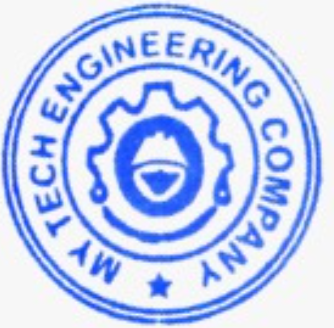
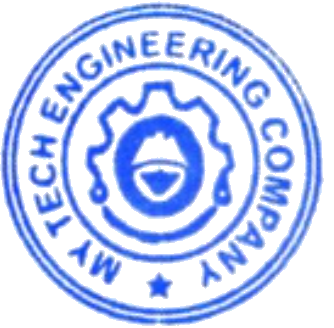
fix: make stamp background transparent and add horizontal padding to prevent overlapping with text

diff --git a/backend/MyTechERP.Infrastructure/Services/QuotationPdfService.cs b/backend/MyTechERP.Infrastructure/Services/QuotationPdfService.cs
@@ -600,7 +600,7 @@ namespace MyTechERP.Infrastructure.Services
                         var stampPath = Path.Combine(Directory.GetCurrentDirectory(), "wwwroot", "images", "stamp.png");
                         if (File.Exists(stampPath))
                         {
-                            row.ConstantItem(60).AlignCenter().AlignMiddle().Image(stampPath).FitArea();
+                            row.ConstantItem(100).PaddingHorizontal(15).AlignCenter().AlignMiddle().Image(stampPath).FitArea();
                         }
                         else
                         {
